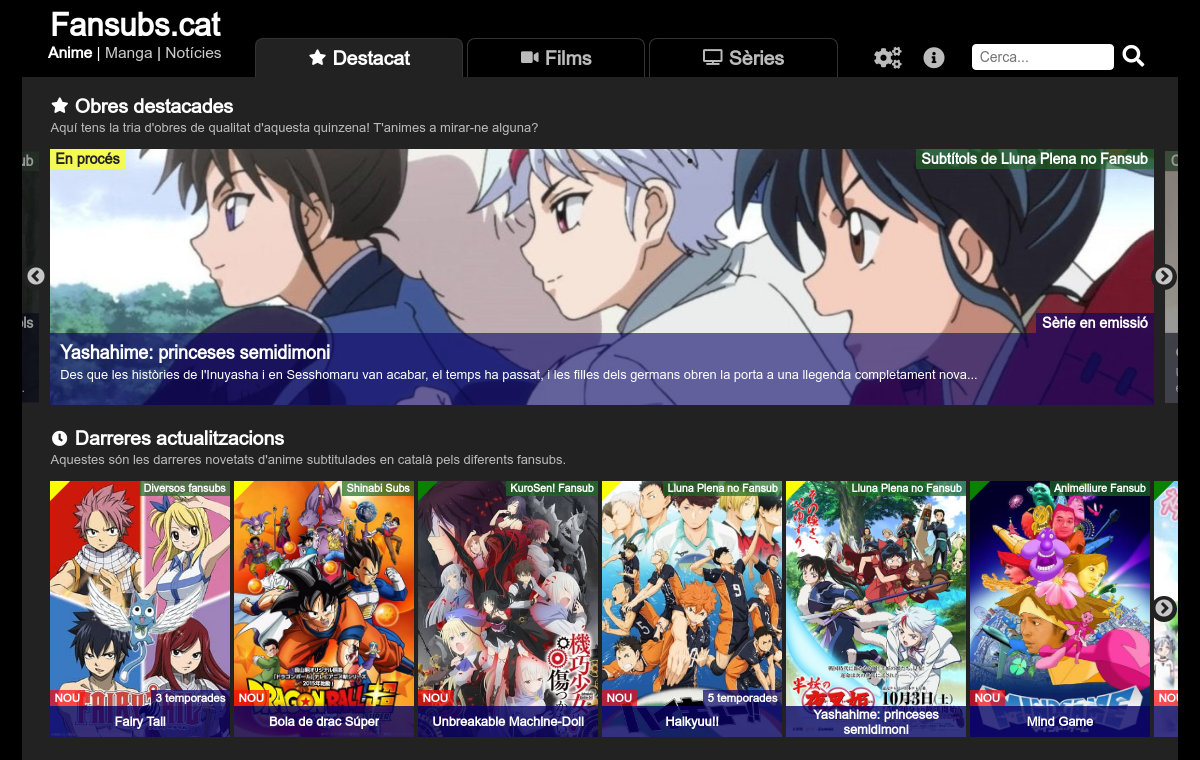
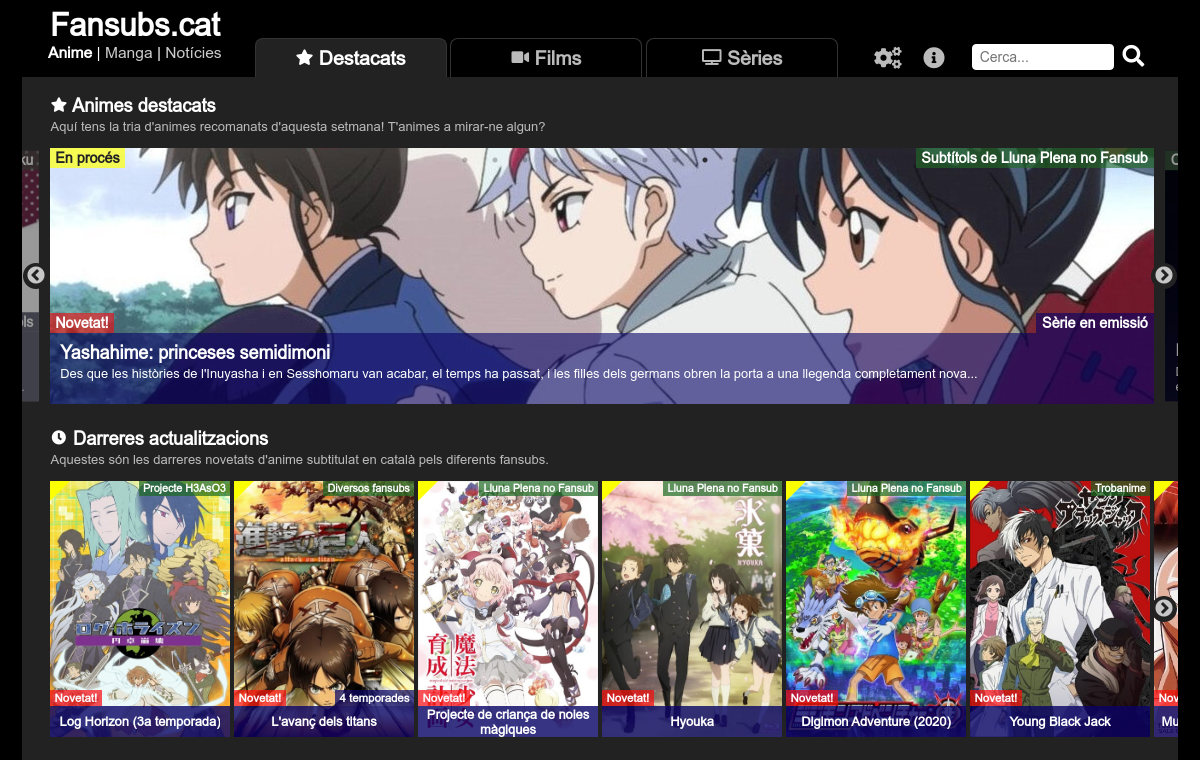
Prepare for release

diff --git a/websites/anime.fansubs.cat/js/common.js b/websites/anime.fansubs.cat/js/common.js
@@ -364,7 +364,7 @@ $(document).ready(function() {
 			} else if ($(this).hasClass('trackable-related-manga')){
 				type="Click manga";
 				event="Click related manga";
-				label=$(this).attr('data-name'); //TODO Change when mangav2 is available
+				label=$(this).attr('data-manga-id');
 			} else if ($(this).hasClass('trackable-advent')){
 				type="Click advent calendar";
 				event="Click advent calendar";

diff --git a/websites/anime.fansubs.cat/style/anime.css b/websites/anime.fansubs.cat/style/anime.css
@@ -1041,6 +1041,7 @@ a:hover {
 	font-size: 1.1em;
 	text-align: left;
 	padding-bottom: 1em;
+	max-width: 300px;
 }
 
 .sidebar_data div {

diff --git a/websites/manga.fansubs.cat/style/manga.css b/websites/manga.fansubs.cat/style/manga.css
@@ -1037,6 +1037,7 @@ a:hover {
 	font-size: 1.1em;
 	text-align: left;
 	padding-bottom: 1em;
+	max-width: 300px;
 }
 
 .sidebar_data div {

diff --git a/websites/anime.fansubs.cat/series.php b/websites/anime.fansubs.cat/series.php
@@ -501,32 +501,6 @@ if ($count_unfiltered==0) {
 		$i++;
 	}
 }
-
-//TODO Remove when mangav2 is available
-$resultrm = query("SELECT rm.* FROM related_manga rm WHERE rm.series_id=".$series['id']." ORDER BY rm.name ASC");
-
-if (mysqli_num_rows($resultrm)>0) {
-?>
-						<div class="section" style="padding-top: 1em;">
-							<h2 class="section-title">Manga relacionat</h2>
-							<div class="section-content">
-<?php
-	$first = TRUE;
-	while ($row = mysqli_fetch_assoc($resultrm)) {
-		if (!$first) {
-			echo ", ";
-		} else {
-			echo "\t\t\t\t\t\t\t\t";
-			$first = FALSE;
-		}
-		echo '<a class="trackable-related-manga" data-name="'.$row['name'].'" href="'.$row['url'].'">'.$row['name'].'</a>';
-	}
-?>
-
-							</div>
-						</div>
-<?php
-}
 ?>
 					</div>
 				</div>
@@ -549,7 +523,7 @@ $resultra = query($base_query . " WHERE s.id IN (".implode(',',$in).") GROUP BY 
 if (mysqli_num_rows($resultra)>0) {
 ?>
 					<div class="section">
-						<h2 class="section-title-main"><span class="iconsm fa fa-fw fa-tv"></span> Animes relacionats</h2>
+						<h2 class="section-title-main"><span class="iconsm fa fa-fw fa-tv"></span> Animes recomanats</h2>
 						<h3 class="section-subtitle">Si t'agrada aquest anime, és possible que també t'agradin els d'aquesta llista:</h3>
 						<div class="section-content carousel">
 <?php
@@ -575,16 +549,20 @@ mysqli_free_result($resultra);
 $max_items=24;
 $base_query="SELECT s.*, (SELECT nv.id FROM manga_version nv WHERE nv.files_updated=MAX(v.files_updated) AND v.manga_id=s.id LIMIT 1) manga_version_id, GROUP_CONCAT(DISTINCT f.name ORDER BY f.name SEPARATOR '|') fansub_name, GROUP_CONCAT(DISTINCT sg.genre_id) genres, MIN(v.status) best_status, MAX(v.files_updated) last_updated, (SELECT COUNT(ss.id) FROM volume ss WHERE ss.manga_id=s.id) volumes, s.chapters, (SELECT MAX(ls.created) FROM file ls LEFT JOIN manga_version vs ON ls.manga_version_id=vs.id WHERE vs.manga_id=s.id) last_link_created FROM manga s LEFT JOIN manga_version v ON s.id=v.manga_id LEFT JOIN rel_manga_version_fansub vf ON v.id=vf.manga_version_id LEFT JOIN fansub f ON vf.fansub_id=f.id LEFT JOIN rel_manga_genre sg ON s.id=sg.manga_id LEFT JOIN genre g ON sg.genre_id = g.id";
 //End copy from index.php
-
-//TODO Fix when mangav2 is available
-//$related_query="SELECT rm.related_manga_id FROM related_manga rm WHERE rm.series_id=".$series['id'];
-$related_query="-1";
-$resultrm = query($base_query . " WHERE s.id IN ($related_query) GROUP BY s.id ORDER BY s.name ASC");
+//1. Related, 2. Same author, 3. Half of genres or more in common
+$related_query="SELECT rm.related_manga_id id, m.name FROM related_manga rm LEFT JOIN manga m ON rm.related_manga_id=m.id WHERE rm.series_id=".$series['id']." UNION SELECT id, NULL FROM manga WHERE author='".escape($series['author'])."' UNION (SELECT manga_id id, NULL FROM rel_manga_genre GROUP BY manga_id HAVING COUNT(CASE WHEN genre_id IN (SELECT genre_id FROM rel_series_genre WHERE series_id=".$series['id'].") THEN 1 END)>=".count(explode(', ', max(1, intval(round($series['genres']))/2))).") ORDER BY name IS NULL ASC, name ASC, RAND() LIMIT $max_items";
+$resultin = query($related_query);
+$in = array(-1);
+while ($row = mysqli_fetch_assoc($resultin)) {
+	$in[]=$row['id'];
+}
+mysqli_free_result($resultin);
+$resultrm = query($base_query . " WHERE s.id IN (".implode(',',$in).") GROUP BY s.id ORDER BY FIELD(s.id,".implode(',',$in).") ASC");
 
 if (mysqli_num_rows($resultrm)>0) {
 ?>
 					<div class="section">
-						<h2 class="section-title-main"><span class="iconsm fa fa-fw fa-book-open"></span> Mangues relacionats</h2>
+						<h2 class="section-title-main"><span class="iconsm fa fa-fw fa-book-open"></span> Mangues recomanats</h2>
 						<h3 class="section-subtitle">Si t'agrada aquest anime, és possible que també t'agradin aquests mangues:</h3>
 						<div class="section-content carousel">
 <?php

diff --git a/websites/admin.fansubs.cat/header.inc.php b/websites/admin.fansubs.cat/header.inc.php
@@ -61,8 +61,7 @@ if (empty($skip_navbar) && !empty($_SESSION['username']) && !empty($_SESSION['ad
 					</li>
 					<li class="nav-item dropdown<?php echo $page=='manga' ? ' active' : ''; ?>">
 						<a class="nav-link dropdown-toggle" href="#" id="navbarDropdownSeries" role="button" data-toggle="dropdown" aria-haspopup="true" aria-expanded="false">Manga</a>
-						<div class="dropdown-menu" aria-labelledby="navbarDropdownSeries" style="background-color: #f8d7da;">
-							<div class="alert text-center mb-0 mt-0"><span class="fa fa-exclamation-triangle pr-2"></span>Zona en proves<span class="fa fa-exclamation-triangle pl-2"></span></div>
+						<div class="dropdown-menu" aria-labelledby="navbarDropdownSeries">
 <?php
 	if ($_SESSION['admin_level']>=2) {
 ?>
@@ -157,7 +156,7 @@ if (empty($skip_navbar) && !empty($_SESSION['username']) && !empty($_SESSION['ad
 ?>
 				</ul>
 				<a class="text-light pr-4" href="https://anime.fansubs.cat<?php echo $base_url; ?>/" target="_blank" title="Mostra el web públic (anime.fansubs.cat)"><span class="fa-stack"><span class="fa fa-globe fa-stack-2x"></span><span class="fa fa-custom-anime fa-stack-1x" style="margin-top: 0.5em; margin-left: 0.75em;"></span></span></a>
-				<a class="text-light pr-4" href="https://manga.fansubs.cat<?php echo $base_url; ?>/" target="_blank" title="Mostra el web públic (manga.fansubs.cat)"><span class="fa-stack"><span class="fa fa-globe fa-stack-2x"></span><span class="fa fa-custom-manga fa-stack-1x" style="margin-top: 0.5em; margin-left: 0.75em;"></span></span></span></a>
+				<a class="text-light pr-4" href="https://mangav2.fansubs.cat<?php echo $base_url; ?>/" target="_blank" title="Mostra el web públic (mangav2.fansubs.cat)"><span class="fa-stack"><span class="fa fa-globe fa-stack-2x"></span><span class="fa fa-custom-manga fa-stack-1x" style="margin-top: 0.5em; margin-left: 0.75em;"></span></span></span></a>
 				<a class="text-light pr-4" href="https://www.fansubs.cat<?php echo $base_url; ?>/" target="_blank" title="Mostra el web públic (www.fansubs.cat)"><span class="fa-stack"><span class="fa fa-globe fa-stack-2x"></span><span class="fa fa-custom-news fa-stack-1x" style="margin-top: 0.5em; margin-left: 0.75em;"></span></span></span></a>
 				<a class="text-light pr-4" href="https://docs.google.com/document/d/10EMgWjVqrmDFUpxLI44cq4n5iOPHRKL3vZfL59Tt3SA/edit?usp=sharing" target="_blank" title="Ajuda"><span class="fa fa-question-circle"></span></a>
 				<a class="text-light" href="logout.php" title="Tanca la sessió"><?php echo htmlspecialchars($_SESSION['username']); ?><span class="fa fa-sign-out-alt ml-2"></span></a>

diff --git a/websites/admin.fansubs.cat/index.php b/websites/admin.fansubs.cat/index.php
@@ -44,24 +44,21 @@ if (!empty($_SESSION['username']) && !empty($_SESSION['admin_level']) && $_SESSI
 					</div>
 					<div class="col-sm">
 						<h5 class="card-title text-center mb-3 mt-2">Manga</h5>
-<!--
 <?php
 	if ($_SESSION['admin_level']>=2) {
 ?>
 						<div class="text-center p-2">
-							<a href="javascript:alert('Encara no està disponible.');" class="btn btn-primary disabled"><span class="fa fa-plus pr-2"></span>Afegeix un manga nou</a> 
+							<a href="manga_edit.php" class="btn btn-primary"><span class="fa fa-plus pr-2"></span>Afegeix un manga nou</a> 
 						</div>
 <?php
 	}
 ?>
 						<div class="text-center p-2">
-							<a href="javascript:alert('Encara no està disponible.');" class="btn btn-primary disabled"><span class="fa fa-plus pr-2"></span>Afegeix una versió nova</a>
+							<a href="manga_choose.php" class="btn btn-primary"><span class="fa fa-plus pr-2"></span>Afegeix una versió nova</a>
 						</div>
 						<div class="text-center p-2">
-							<a href="javascript:alert('Encara no està disponible.');" class="btn btn-primary disabled"><span class="fa fa-edit pr-2"></span>Edita una versió existent</a>
+							<a href="manga_version_list.php" class="btn btn-primary"><span class="fa fa-edit pr-2"></span>Edita una versió existent</a>
 						</div>
--->
-					<p class="text-center alert alert-warning"><span class="fa fa-exclamation-triangle mb-3" style="font-size: 1.5em;"></span><br />L'edició de manga encara no està disponible en aquesta versió del tauler d'administració.<br />Pots gestionar el manga <a href="https://manga.fansubs.cat/admin.php">aquí</a>.</p>
 					</div>
 					<div class="col-sm">
 						<h5 class="card-title text-center mb-3 mt-2">Notícies</h5>

diff --git a/websites/anime.fansubs.cat/header.inc.php b/websites/anime.fansubs.cat/header.inc.php
@@ -30,7 +30,7 @@ if (!empty($header_social)) {
 		<link rel="stylesheet" href="https://ajax.googleapis.com/ajax/libs/jqueryui/1.12.1/themes/smoothness/jquery-ui.css">
 		<link rel="stylesheet" href="https://cdn.jsdelivr.net/npm/slick-carousel@1.8.1/slick/slick.css"/>
 		<link rel="stylesheet" href="https://cdn.jsdelivr.net/npm/slick-carousel@1.8.1/slick/slick-theme.css"/>
-		<link rel="stylesheet" href="<?php echo $base_url; ?>/style/anime.css?v=7" media="screen" />
+		<link rel="stylesheet" href="<?php echo $base_url; ?>/style/anime.css?v=8" media="screen" />
 <?php
 $is_fools_day = (date('d')==28 && date('m')==12);
 if ($is_fools_day){
@@ -44,7 +44,7 @@ if ($is_fools_day){
 		<script src="https://ajax.googleapis.com/ajax/libs/jqueryui/1.12.1/jquery-ui.min.js"></script>
 		<script src="https://cdn.jsdelivr.net/npm/js-cookie@2.2.1/src/js.cookie.min.js"></script>
 		<script src="https://cdn.jsdelivr.net/npm/slick-carousel@1.8.1/slick/slick.min.js"></script>
-		<script src="<?php echo $base_url; ?>/js/common.js?v=7"></script>
+		<script src="<?php echo $base_url; ?>/js/common.js?v=8"></script>
 	</head>
 	<body>
 		<div data-nosnippet id="overlay" class="hidden">

diff --git a/websites/manga.fansubs.cat/manga.php b/websites/manga.fansubs.cat/manga.php
@@ -496,7 +496,7 @@ $resultrm = query($base_query . " WHERE s.id IN (".implode(',',$in).") GROUP BY 
 if (mysqli_num_rows($resultrm)>0) {
 ?>
 					<div class="section">
-						<h2 class="section-title-main"><span class="iconsm fa fa-fw fa-book-open"></span> Mangues relacionats</h2>
+						<h2 class="section-title-main"><span class="iconsm fa fa-fw fa-book-open"></span> Mangues recomanats</h2>
 						<h3 class="section-subtitle">Si t'agrada aquest manga, és possible que també t'agradin els d'aquesta llista:</h3>
 						<div class="section-content carousel">
 <?php
@@ -535,7 +535,7 @@ $resultra = query($base_query . " WHERE s.id IN (".implode(',',$in).") GROUP BY 
 if (mysqli_num_rows($resultra)>0) {
 ?>
 					<div class="section">
-						<h2 class="section-title-main"><span class="iconsm fa fa-fw fa-tv"></span> Animes relacionats</h2>
+						<h2 class="section-title-main"><span class="iconsm fa fa-fw fa-tv"></span> Animes recomanats</h2>
 						<h3 class="section-subtitle">Si t'agrada aquest manga, és possible que també t'agradin aquests animes:</h3>
 						<div class="section-content carousel">
 <?php

diff --git a/websites/manga.fansubs.cat/index.php b/websites/manga.fansubs.cat/index.php
@@ -221,11 +221,11 @@ for ($i=0;$i<count($sections);$i++){
 <?php
 				} else if ($row['volumes']>1 && $row['show_volumes']==1) {
 ?>
-									<div class="seasons">Manga de <?php echo $row['volumes']; ?> volums, <?php echo $row['chapters']==-1 ? 'en edició' : $row['chapters'].' capítols'; ?></div>
+									<div class="seasons">Manga <?php echo $row['volumes']==1 ? "d'1 volum" : 'de '.$row['volumes'].' volums'; ?>, <?php echo $row['chapters']==-1 ? 'en edició' : $row['chapters'].' capítols'; ?></div>
 <?php
 				} else {
 ?>
-									<div class="seasons">Manga <?php echo $row['chapters']==-1 ? 'en edició' : 'de '.$row['volumes'].' volums'; ?></div>
+									<div class="seasons">Manga <?php echo $row['chapters']==-1 ? 'en edició' : ($row['volumes']==1 ? "d'1 volum" : 'de '.$row['volumes'].' volums'); ?></div>
 <?php
 				}
 ?>

diff --git a/websites/anime.fansubs.cat/embed.php b/websites/anime.fansubs.cat/embed.php
@@ -19,10 +19,10 @@ if (isset($failed)) {
 		<meta charset="UTF-8" />
 		<meta name="viewport" content="width=device-width, initial-scale=1.0" />
 		<title>Fansubs.cat - Anime en català</title>
-		<link rel="stylesheet" href="<?php echo $base_url; ?>/style/anime.css?v=6" media="screen" />
+		<link rel="stylesheet" href="<?php echo $base_url; ?>/style/anime.css?v=8" media="screen" />
 		<script src="https://ajax.googleapis.com/ajax/libs/jquery/3.5.1/jquery.min.js"></script>
 		<script src="https://cdn.jsdelivr.net/npm/js-cookie@2.2.1/src/js.cookie.min.js"></script>
-		<script src="<?php echo $base_url; ?>/js/common.js?v=6"></script>
+		<script src="<?php echo $base_url; ?>/js/common.js?v=8"></script>
 	</head>
 	<body>
 		<input type="hidden" id="embed-page" value="1" />

diff --git a/services/news/migrate_manga_from_piwigo.php b/services/news/migrate_manga_from_piwigo.php
@@ -40,13 +40,14 @@ function create_dir($name){
 }
 
 function copy_file($origin, $destination){
-	global $dry_run;
+	/*global $dry_run;
 	if ($dry_run) {
 		echo "Copy file from '$origin' to '$destination'\n";
 		return TRUE;
 	} else {
 		return copy($origin, $destination);
-	}
+	}*/
+	return TRUE;
 }
 
 function move_file($origin, $destination){
